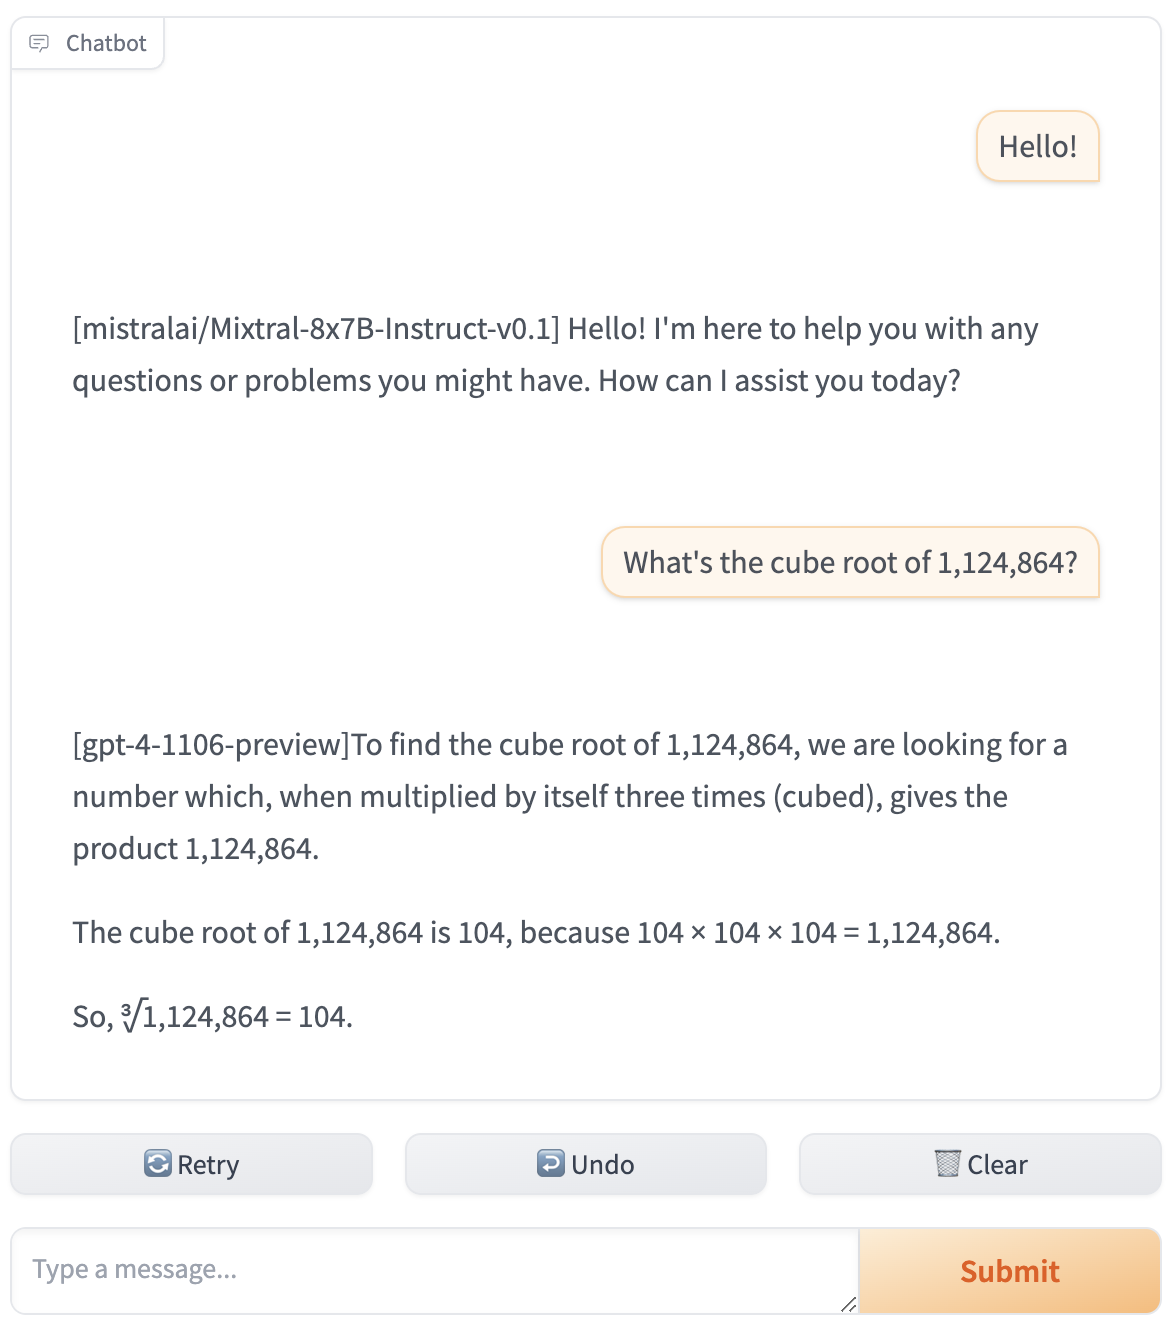
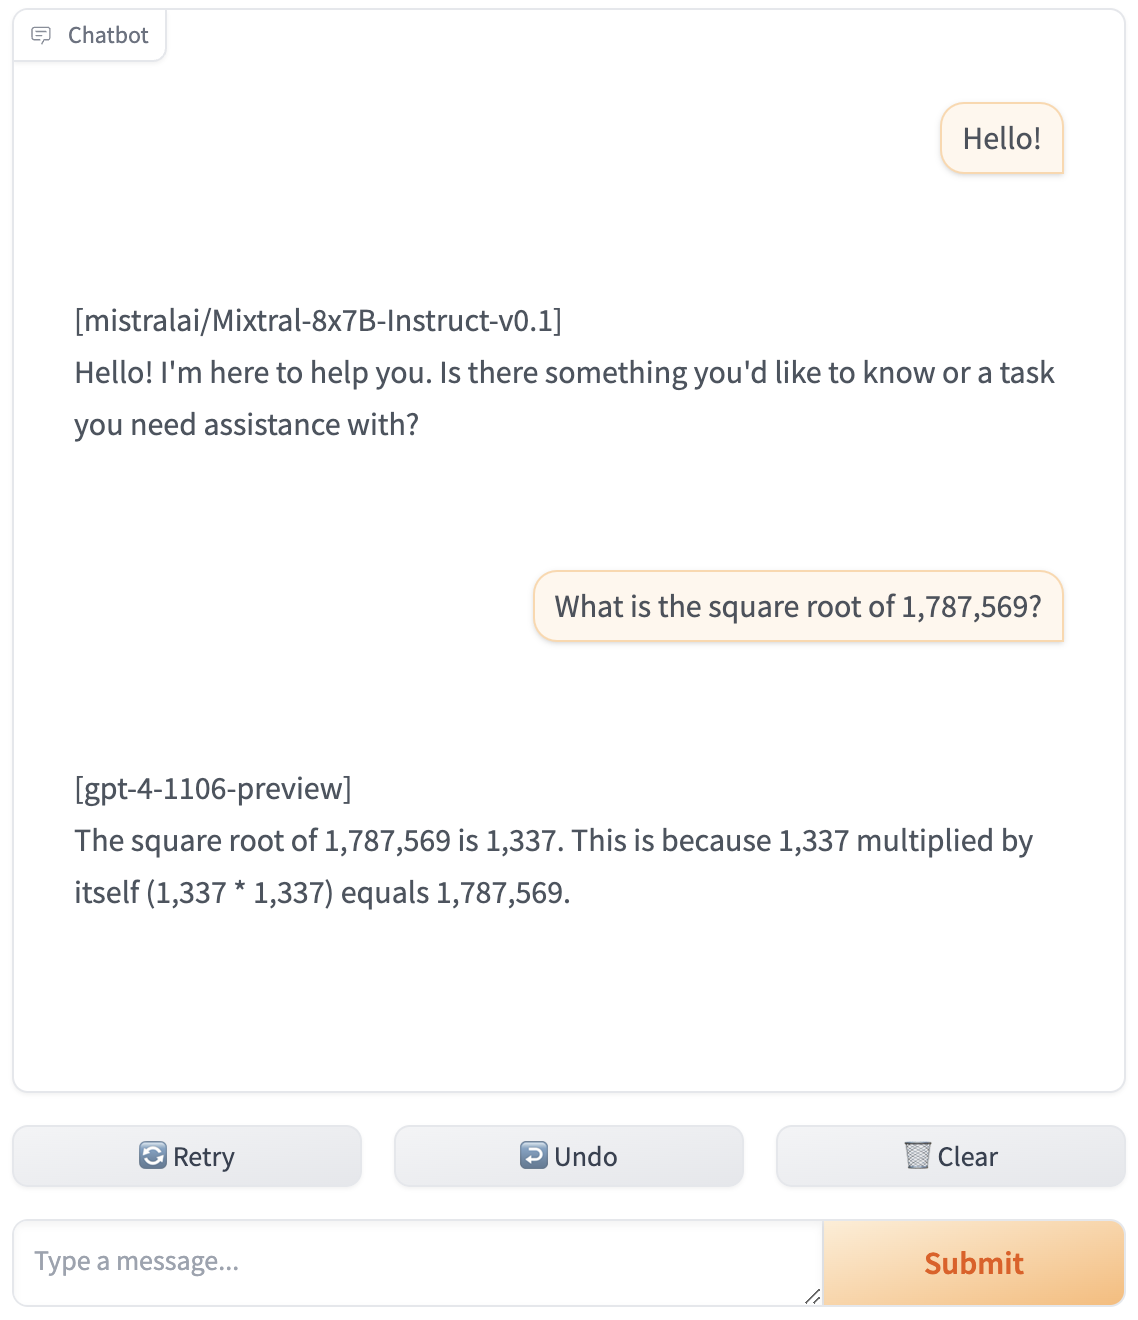
Add newline after model in chat demo

diff --git a/examples/router_chat.py b/examples/router_chat.py
@@ -80,7 +80,7 @@ def predict(message, history, threshold, router, temperature):
     for i, chunk in enumerate(stream):
         print(chunk)
         if i == 0:
-            model_prefix = f"[{chunk.model}]"
+            model_prefix = f"[{chunk.model}]\n"
             yield model_prefix
             partial_message += model_prefix
         partial_message += chunk.choices[0].delta.content or ""
